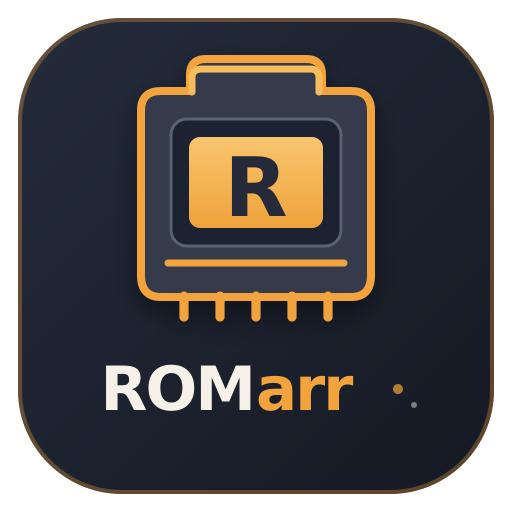
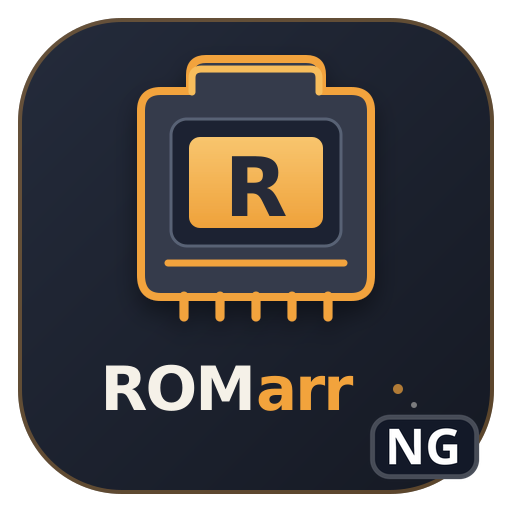
chore(release): prepare ROMarrNG v0.12.0
Release client-specific download path mappings, CodeQL hardening, the Python 3.14 image, and the refreshed Unraid icon.

Changed region(s): [[0.7188, 0.8125, 0.9375, 0.9375]]

diff --git a/romarr/app.py b/romarr/app.py
@@ -113,7 +113,7 @@ from .ui import login_page as ui_login_page
 
 log = logging.getLogger(__name__)
 
-VERSION = "0.11.1"
+VERSION = "0.12.0"
 
 # What ROMarr labels its own downloads with, so its jobs are distinguishable
 # from everything else in a shared client -- the same reason Radarr and Sonarr

diff --git a/CHANGELOG.md b/CHANGELOG.md
@@ -1,5 +1,26 @@
 # Changelog
 
+## [0.12.0] - 2026-10-01
+
+### Added
+
+- Remote download path mappings can target one configured download client. This
+  lets SABnzbd and torrent clients use different local paths for the same
+  reported remote path; existing mappings still apply to every client.
+
+### Changed
+
+- The Unraid Community Applications icon now displays the NG badge, with a
+  refreshed cache version.
+- Container images now use Python 3.14.
+
+### Security
+
+- Hardened Steam profile URL validation against untrusted destinations and
+  made request-target credential redaction linear while preventing log-line
+  injection. Removed attacker-controlled values from sensitive log messages.
+- Enabled Dependabot updates and dependency review automation.
+
 ## [0.11.1] - 2026-09-29
 
 The Unraid Community Applications template now uses the ROMarrNG 0.11.1 icon

diff --git a/release-notes/2026-09-30-unraid-ng-icon-badge.md b/release-notes/2026-09-30-unraid-ng-icon-badge.md
@@ -1,0 +1,8 @@
+---
+category: changed
+audience: users, operators
+area: unraid
+action: none
+breaking: false
+---
+The ROMarrNG Unraid icon now displays an NG badge, and its cache version has been refreshed so Community Applications can show the updated branding.
